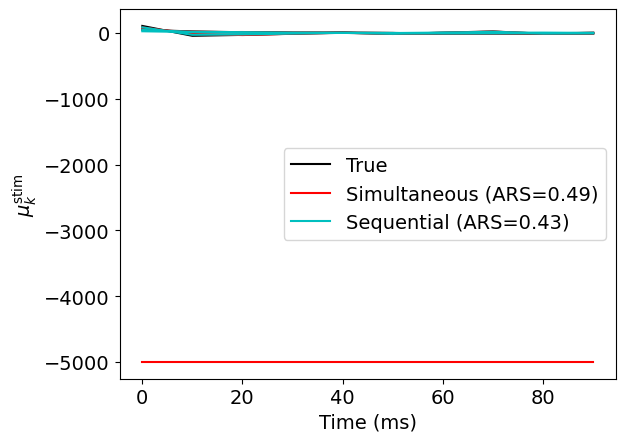
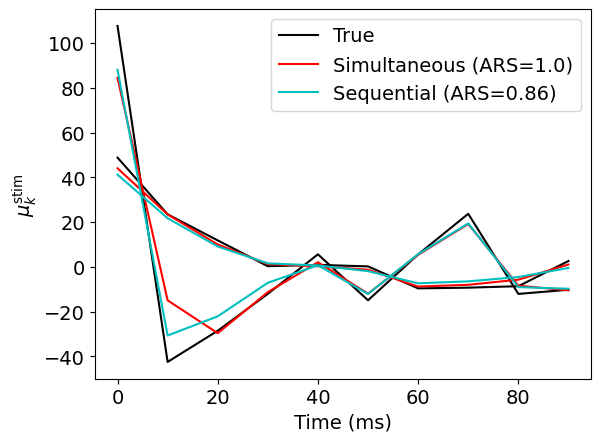
2 clusters

diff --git a/models.py b/models.py
@@ -87,16 +87,21 @@ def sim_GMMGLM_from_fit(D, drange = 20000, downsample=None):
     K = D['K']
     d = D['d']
     true_mus = D['mu_k']
-    true_sigmas = np.array([np.sqrt(np.diag(D['C_k'][k])) for k in range(K)])/4
+    true_sigmas = np.array([np.sqrt(np.diag(D['C_k'][k])) for k in range(K)])/10
     true_ks = np.argmax(D['Q'],axis=1)
     ks = np.arange(K)
     ks = ks[np.isin(ks,true_ks)]
     true_mu_plus_cis = true_mus+2*true_sigmas/np.sqrt(d[0]+2)
-    which_k = np.array([0 > true_mu_plus_cis[k,-1] + np.max(true_mu_plus_cis[k,d[0]:-1]) + np.sum(true_mu_plus_cis[k,:d[0]])*np.mean(np.max(sim_stim,axis=1)[true_ks==k]) and D['wts'][k]>0.03 for k in ks])
+    which_k_under = np.array([0 > true_mu_plus_cis[k,-1] + np.max(true_mu_plus_cis[k,d[0]:-1]) + np.sum(true_mu_plus_cis[k,:d[0]])*np.mean(np.max(sim_stim,axis=1)[true_ks==k]) and D['wts'][k]>0.03 for k in ks])
+    true_mu_plus_cis = true_mus-2*true_sigmas/np.sqrt(d[0]+2)
+    which_k_over = np.array([-4 < true_mu_plus_cis[k,-1] + np.max(true_mu_plus_cis[k,d[0]:-1]) + np.sum(true_mu_plus_cis[k,:d[0]])*np.mean(np.max(sim_stim,axis=1)[true_ks==k]) and D['wts'][k]>0.03 for k in ks])
+    which_k = which_k_over & which_k_under
     sim_stim = sim_stim[np.isin(true_ks,ks[which_k])]
     N = np.sum(np.isin(true_ks,ks[which_k]) )
     true_ks = true_ks[np.isin(true_ks,ks[which_k])]
     true_betas = np.zeros((N,d[0]+d[1]+1))
+    
+
     print(sum(which_k),ks[which_k],true_ks.shape,true_mus.shape,true_sigmas.shape,sim_stim.shape)
 
     sim_spikes = np.zeros_like(sim_stim)
@@ -105,7 +110,7 @@ def sim_GMMGLM_from_fit(D, drange = 20000, downsample=None):
         true_betas[n,:] = true_mus[true_ks[n],:]+np.random.normal(0,true_sigmas[true_ks[n],:])
         sim_spikes[n,:],rates[n,:] = sim_GLM(sim_stim[n:n+1,:],true_betas[n,:d[0]],true_betas[n,d[0]:d[0]+d[1]],true_betas[n,-1],downsample=downsample)
     clips = np.sum(rates>1,axis=1)
-    print(clips)
+    print(clips,np.sum(sim_spikes,axis=1))
     true_mus = true_mus[ks[which_k],:]
     true_sigmas = true_sigmas[ks[which_k],:]
     print(true_mus)

diff --git a/reviewer_figmaker.py b/reviewer_figmaker.py
@@ -114,7 +114,7 @@ share = 'all'
 l2s = np.logspace(-7,-1,13) if share!='all' else np.array([0])
 trials = 20
 
-Kfit=3
+Kfit=2
 fname = 'sim_frivsccsimul_simul'+str(0)+'_Kfit'+str(Kfit)+'_l2i'+str(0)+'_share='+share
 D_true = np.load(fname+'.npz',allow_pickle=True)
 N = D_true['Q'].shape[0]
@@ -139,7 +139,8 @@ if run:
             fname = 'sim_frivsccsimul_simul'+str(trial)+'_Kfit'+str(Kfit)+'_l2i'+str(l2_i)+'_share='+share
             try:
                 D = np.load(fname+'.npz',allow_pickle=True)
-                if D['BIC']>max_BIC:
+                print(D['bad'])
+                if D['BIC']>max_BIC and not np.any(D['bad']):
                     max_BIC=D['BIC']
                     simul_D = {k:D[k] for k in ['ars','Ws','Fs','bs','mu_k','C_k','wts','l2']}
             except Exception as e:
@@ -227,3 +228,4 @@ plt.close()
 
 
 
+print(D['simul_D'][()]['mu_k'][:,:d[0]])

diff --git a/run_script.py b/run_script.py
@@ -264,7 +264,7 @@ def main_sim_from_ivscc(seq_method = False, share='all'):
         fname = 'sim_frivsccsimul_simul'+str(trial)+'_Kfit'+str(Kfit)+'_l2i'+str(l2_i)+'_share='+share
 
 
-    np.random.seed(int(time.time()*10000000000000)%(2**32))
+    np.random.seed(id)
     
     if seq_method:
         Ws = []
